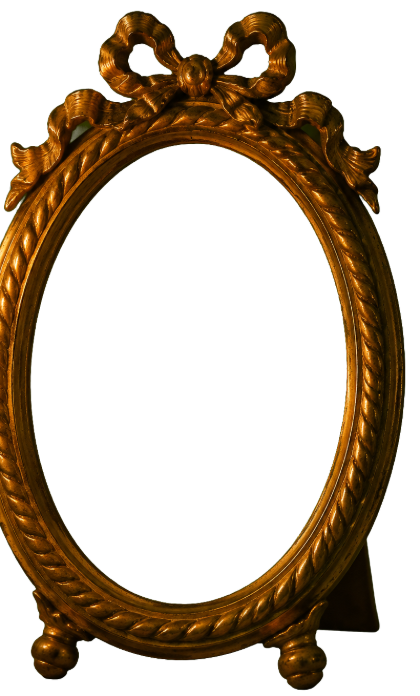
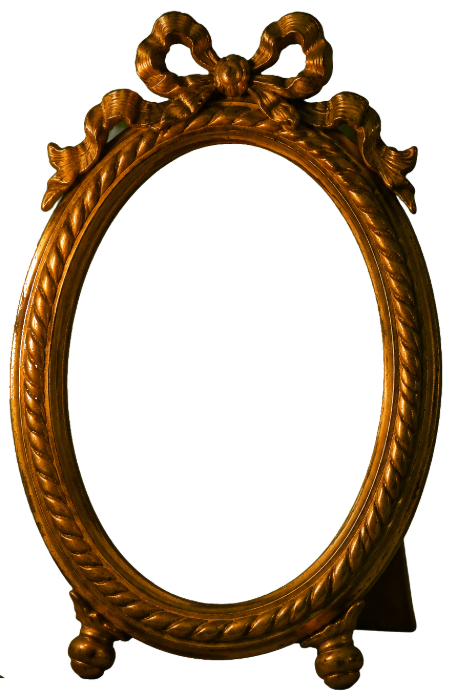
Recadrer la photo du portrait et rendre au cadre doré sa moulure gauche
La photo montre la tête entière, avec l'ombre du cadre et un reflet de verre.
Le cadre est redécoupé sans rogner son bord gauche ; la vue téléphone est
recentrée pour qu'il reste entier.

diff --git a/site/css/style.css b/site/css/style.css
@@ -118,27 +118,30 @@ h1, h2, h3, p { margin: 0; }
 }
 
 /* ---------- Le portrait dans le cadre ovale ---------- */
-/* Le cadre doré (image Canva détourée, 420 × 696) est posé sur le cuir, juste devant le rebord du fond,
-   pieds visibles. La photo de Laurent passe derrière son ouverture ovale (mesurée : 7,25 % / 20,7 %, 75,25 % × 66 %). */
+/* Le cadre doré (image Canva détourée, 457 × 696) est posé sur le cuir, juste devant le rebord du fond,
+   pieds visibles. La photo de Laurent passe derrière son ouverture ovale (mesurée : 14,7 % / 20,7 %, 69,2 % × 66 %). */
 .portrait {
-  position: absolute; left: calc(942 * var(--k)); top: calc(232 * var(--k)); width: calc(199 * var(--k)); height: calc(330 * var(--k)); display: block; z-index: 1;
+  position: absolute; left: calc(925 * var(--k)); top: calc(232 * var(--k)); width: calc(216 * var(--k)); height: calc(330 * var(--k)); display: block; z-index: 1;
 }
 .portrait::before { /* ombre de contact sur le cuir */
   content: ""; position: absolute; left: 0; right: -6%; bottom: -2.5%; height: 7%; border-radius: 50%;
   background: radial-gradient(ellipse, rgba(0, 0, 0, .8), rgba(0, 0, 0, .35) 45%, rgba(0, 0, 0, 0) 70%);
 }
-.portrait__photo {
-  position: absolute; left: 6.8%; top: 20.3%; width: 76.2%; height: 66.8%; border-radius: 50%; overflow: hidden; background: #2A2016;
+.portrait__photo { /* tirage ancien sous verre ; le fond blanc de la photo se prolonge au-dessus de la tête */
+  position: absolute; left: 14.25%; top: 20.3%; width: 70.1%; height: 66.8%; border-radius: 50%; overflow: hidden; background: #FFF;
+  filter: grayscale(1) sepia(.75) contrast(.88) brightness(.45) blur(.3px); transition: filter .5s ease;
 }
-.portrait__photo img { width: 100%; height: 100%; max-width: none; object-fit: cover; object-position: 52% 16%; filter: grayscale(1) sepia(.8) contrast(.95) brightness(.47); transition: filter .5s ease; }
-.portrait__photo::after { /* vignette de vieille photo et reflet du verre */
+/* Cadrage d'un portrait ovale : tête entière avec de l'air au-dessus, yeux vers 40 % de la hauteur, épaules en bas. */
+.portrait__photo img { position: absolute; left: 50%; bottom: 0; width: 118%; height: auto; max-width: none; transform: translateX(-51.5%); }
+.portrait__photo::after { /* ombre du cadre sur le tirage, vignette, reflet du verre */
   content: ""; position: absolute; inset: 0; border-radius: 50%;
+  box-shadow: inset calc(5 * var(--k)) calc(9 * var(--k)) calc(12 * var(--k)) rgba(0, 0, 0, .6), inset 0 0 calc(4 * var(--k)) rgba(0, 0, 0, .7);
   background:
-    linear-gradient(118deg, rgba(255, 255, 255, 0) 30%, rgba(220, 230, 255, .1) 38%, rgba(255, 255, 255, 0) 46%),
-    radial-gradient(ellipse at 50% 45%, rgba(0, 0, 0, 0) 45%, rgba(20, 12, 6, .7) 100%);
+    linear-gradient(122deg, rgba(255, 255, 255, 0) 22%, rgba(255, 255, 255, .16) 30%, rgba(255, 255, 255, .05) 36%, rgba(255, 255, 255, 0) 44%),
+    radial-gradient(ellipse at 50% 46%, rgba(0, 0, 0, 0) 42%, rgba(40, 25, 10, .7) 100%);
 }
 .portrait__cadre { position: absolute; inset: 0; width: 100%; height: 100%; max-width: none; filter: brightness(.7) saturate(.85) drop-shadow(calc(6 * var(--k)) calc(4 * var(--k)) calc(6 * var(--k)) rgba(0, 0, 0, .55)); transition: filter .5s ease; }
-.portrait:hover .portrait__photo img, .portrait:focus-visible .portrait__photo img { filter: grayscale(1) sepia(.8) contrast(.98) brightness(.64); }
+.portrait:hover .portrait__photo, .portrait:focus-visible .portrait__photo { filter: grayscale(1) sepia(.75) contrast(.9) brightness(.66) blur(.3px); }
 .portrait:hover .portrait__cadre, .portrait:focus-visible .portrait__cadre { filter: brightness(.85) saturate(.9) drop-shadow(calc(6 * var(--k)) calc(4 * var(--k)) calc(6 * var(--k)) rgba(0, 0, 0, .55)); }
 
 /* ---------- La plaque « Contact », comme une plaque de bureau en laiton sur son socle ---------- */
@@ -334,7 +337,7 @@ h1, h2, h3, p { margin: 0; }
   .retour { font-size: 18px; }
   .retour { left: 50%; transform: translateX(-50%); }
   .pile__etiquette { font-size: 17px; }
-  .portrait { left: calc(930 * var(--k)); top: calc(298 * var(--k)); width: calc(159 * var(--k)); height: calc(264 * var(--k)); } /* plus petit : la pile et le portrait tiennent dans l'écran */
+  .portrait { left: calc(900 * var(--k)); top: calc(298 * var(--k)); width: calc(173 * var(--k)); height: calc(264 * var(--k)); } /* plus petit : la pile et le portrait tiennent dans l'écran */
   .apropos { gap: 55px; }
 }
 

diff --git a/site/index.html b/site/index.html
@@ -20,7 +20,7 @@
 
     <!-- Le bureau -->
     <section class="vue vue--bureau" aria-label="Le bureau de l’écrivain">
-      <div class="decor" style="--fx:.5;--mfx:.505">
+      <div class="decor" style="--fx:.5;--mfx:.51">
         <img class="decor__fond" src="img/decor-bureau.jpg" width="1680" height="944" alt="">
         <span class="lueur lueur--lanterne" aria-hidden="true"></span>
         <span class="lueur lueur--flamme" aria-hidden="true"></span>
@@ -28,7 +28,7 @@
 
         <a class="portrait" href="a-propos.html" aria-label="À propos de Laurent Blondeau">
           <span class="portrait__photo"><img src="img/portrait.jpg" width="417" height="444" alt=""></span>
-          <img class="portrait__cadre" src="img/cadre-dore.png" width="420" height="696" alt="">
+          <img class="portrait__cadre" src="img/cadre-dore.png" width="457" height="696" alt="">
         </a>
 
         <a class="plaque" href="a-propos.html#contact"><span class="plaque__laiton">Contact</span></a>
